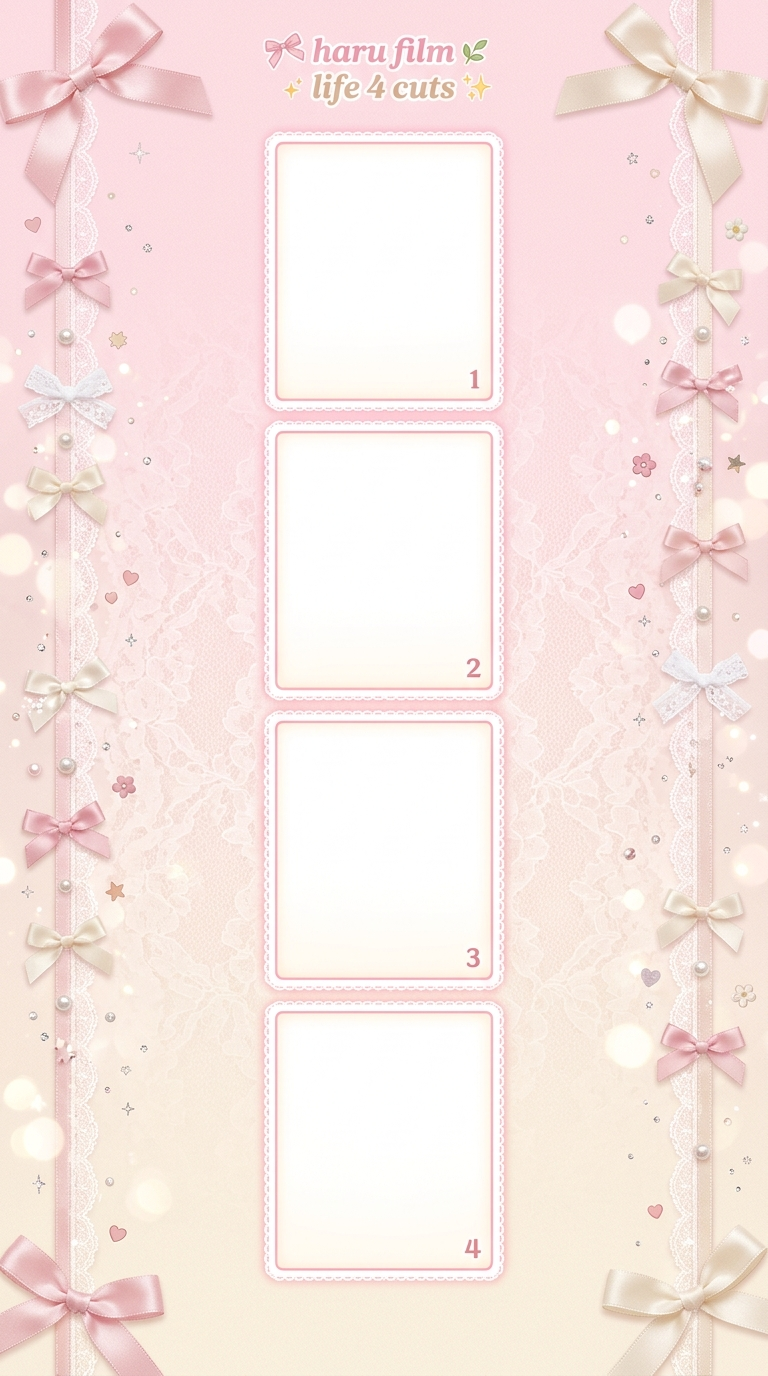
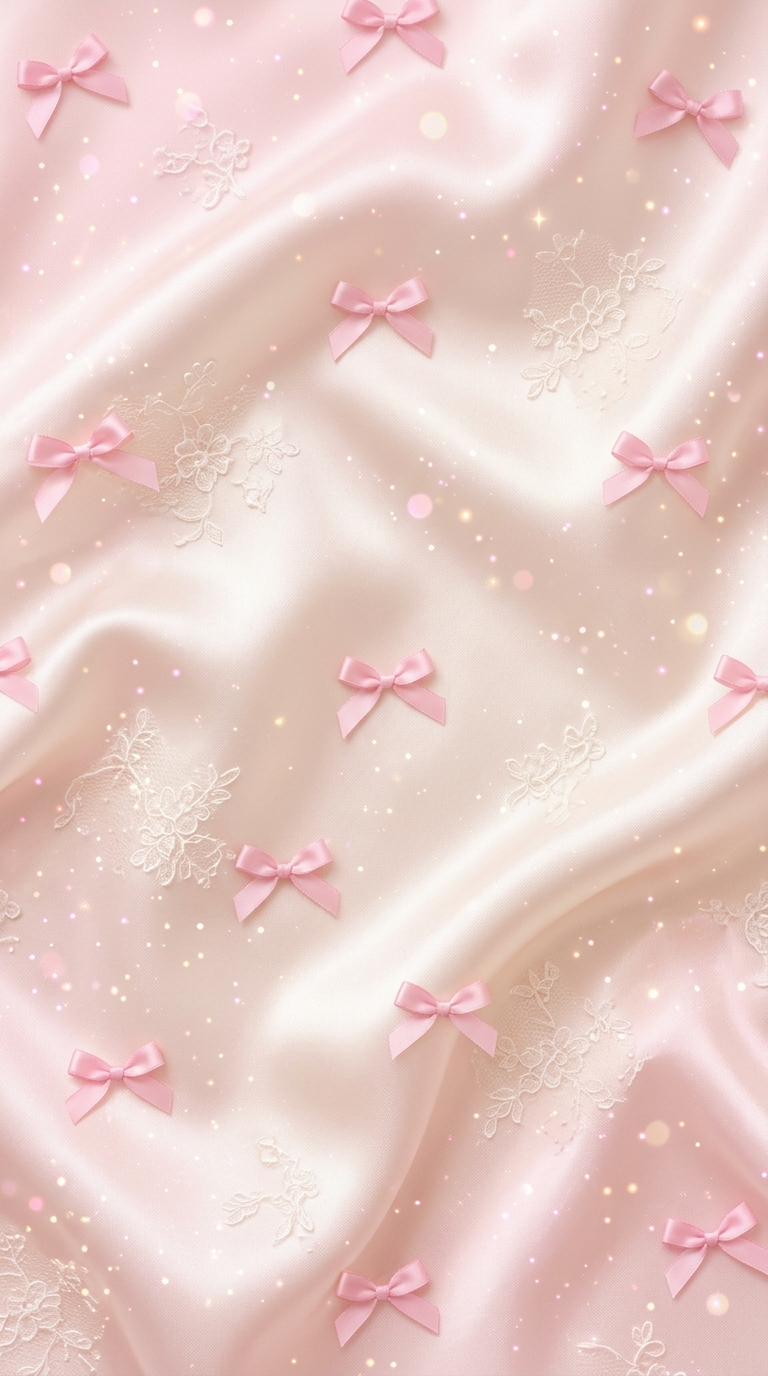
feat: gunakan pure background texture AI (seamless & dinamis untuk semua grid), hilangkan border wrapper putih, & rashing border slim

diff --git a/frontend/src/pages/PhotostripEditor.tsx b/frontend/src/pages/PhotostripEditor.tsx
@@ -81,11 +81,11 @@ export default function PhotostripEditor() {
   const [offsetX, setOffsetX] = useState(state.photoOffsetX || 0);
   const [offsetY, setOffsetY] = useState(state.photoOffsetY || 0);
 
-  // Border thickness & layout controls ("kurang pas ga si" -> golden ratio Life4Cuts standard)
-  const [borderPad, setBorderPad] = useState<number>(26); // Default 26px (Pas - Authentic Korean Photobooth)
-  const [photoGap, setPhotoGap] = useState<number>(14); // Default 14px
-  const [photoRadius, setPhotoRadius] = useState<number>(8); // Default 8px
-  const [showPhotoBorder, setShowPhotoBorder] = useState<boolean>(true); // Crisp card stroke
+  // Border thickness & layout controls ("border putihnya ketebelan" -> slim modern Korean photobooth)
+  const [borderPad, setBorderPad] = useState<number>(16); // Default 16px (Slim & Sleek Korean Photobooth)
+  const [photoGap, setPhotoGap] = useState<number>(10); // Default 10px
+  const [photoRadius, setPhotoRadius] = useState<number>(6); // Default 6px
+  const [showPhotoBorder, setShowPhotoBorder] = useState<boolean>(false); // Default OFF so no extra thick white outlines
 
   const rawPhotos = state.filteredPhotos.length > 0 ? state.filteredPhotos : state.capturedPhotos;
   const isDemo = rawPhotos.length === 0;
@@ -137,8 +137,8 @@ export default function PhotostripEditor() {
     let pad = borderPad;
 
     const isMultiPhoto = layout === "strip4" || layout === "strip3";
-    const topH = showHeader ? (isMultiPhoto ? 100 : 120) : (isMultiPhoto ? 30 : 40);
-    const bottomH = caption || showDate ? (isMultiPhoto ? 140 : 160) : (isMultiPhoto ? 32 : 40);
+    const topH = showHeader ? (isMultiPhoto ? 88 : 110) : (isMultiPhoto ? 20 : 28);
+    const bottomH = caption || showDate ? (isMultiPhoto ? 120 : 140) : (isMultiPhoto ? 20 : 28);
 
     if (layout === "strip3") {
       canvasWidth = 600;
@@ -382,9 +382,9 @@ export default function PhotostripEditor() {
         ctx.roundRect(x, y, photoW, photoH, photoRadius);
         ctx.strokeStyle =
           selectedTheme.type === "image" || selectedTheme.color === "#18181B"
-            ? "rgba(255, 255, 255, 0.55)"
+            ? "rgba(255, 255, 255, 0.4)"
             : "rgba(0, 0, 0, 0.12)";
-        ctx.lineWidth = 1.5;
+        ctx.lineWidth = 1;
         ctx.stroke();
         ctx.restore();
       }
@@ -669,10 +669,10 @@ export default function PhotostripEditor() {
                 {/* Quick Presets */}
                 <div className="grid grid-cols-4 gap-1">
                   {[
-                    { label: "Tipis", pad: 18, gap: 10, rad: 6 },
-                    { label: "Korea", pad: 26, gap: 14, rad: 8 },
-                    { label: "Sedang", pad: 32, gap: 18, rad: 10 },
-                    { label: "Tebal", pad: 40, gap: 22, rad: 12 },
+                    { label: "Tipis", pad: 10, gap: 6, rad: 4 },
+                    { label: "Korea", pad: 16, gap: 10, rad: 6 },
+                    { label: "Sedang", pad: 22, gap: 14, rad: 8 },
+                    { label: "Tebal", pad: 30, gap: 18, rad: 10 },
                   ].map((preset) => (
                     <button
                       key={preset.label}
@@ -973,17 +973,17 @@ export default function PhotostripEditor() {
           </div>
         )}
 
-        <div className="relative bg-white rounded-3xl shadow-xl p-4 sm:p-5 overflow-auto max-h-[75vh] border border-gray-200 flex items-center justify-center">
+        <div className="relative flex items-center justify-center py-2 overflow-auto max-h-[78vh]">
           {loading && (
-            <div className="absolute inset-0 flex flex-col items-center justify-center bg-white/80 rounded-3xl z-10 gap-2">
-              <Loader2 className="animate-spin text-rose-600" size={36} />
-              <span className="text-xs font-bold text-gray-600">Memperbarui desain...</span>
+            <div className="absolute inset-0 flex flex-col items-center justify-center bg-black/40 backdrop-blur-xs rounded-2xl z-10 gap-2">
+              <Loader2 className="animate-spin text-white" size={36} />
+              <span className="text-xs font-bold text-white">Memperbarui desain...</span>
             </div>
           )}
           <canvas
             ref={canvasRef}
-            className="max-w-full rounded-xl shadow-md"
-            style={{ maxHeight: "68vh", width: "auto" }}
+            className="max-w-full rounded-2xl shadow-2xl transition-all"
+            style={{ maxHeight: "72vh", width: "auto" }}
           />
         </div>
 

diff --git a/frontend/src/store/photoboothStore.tsx b/frontend/src/store/photoboothStore.tsx
@@ -67,7 +67,7 @@ const initialState: PhotoboothState = {
   currentPhotoIndex: 0,
   activeFilters: [],
   photostripLayout: "strip4",
-  photostripFrame: { color: "#FDE2E4", themeId: "ai_coquette_bows", borderRadius: 8, borderWidth: 26 },
+  photostripFrame: { color: "#FDE2E4", themeId: "ai_coquette_bows", borderRadius: 6, borderWidth: 16 },
   photostripStickers: [],
   captionText: "",
   sessionGallery: getInitialGallery(),
